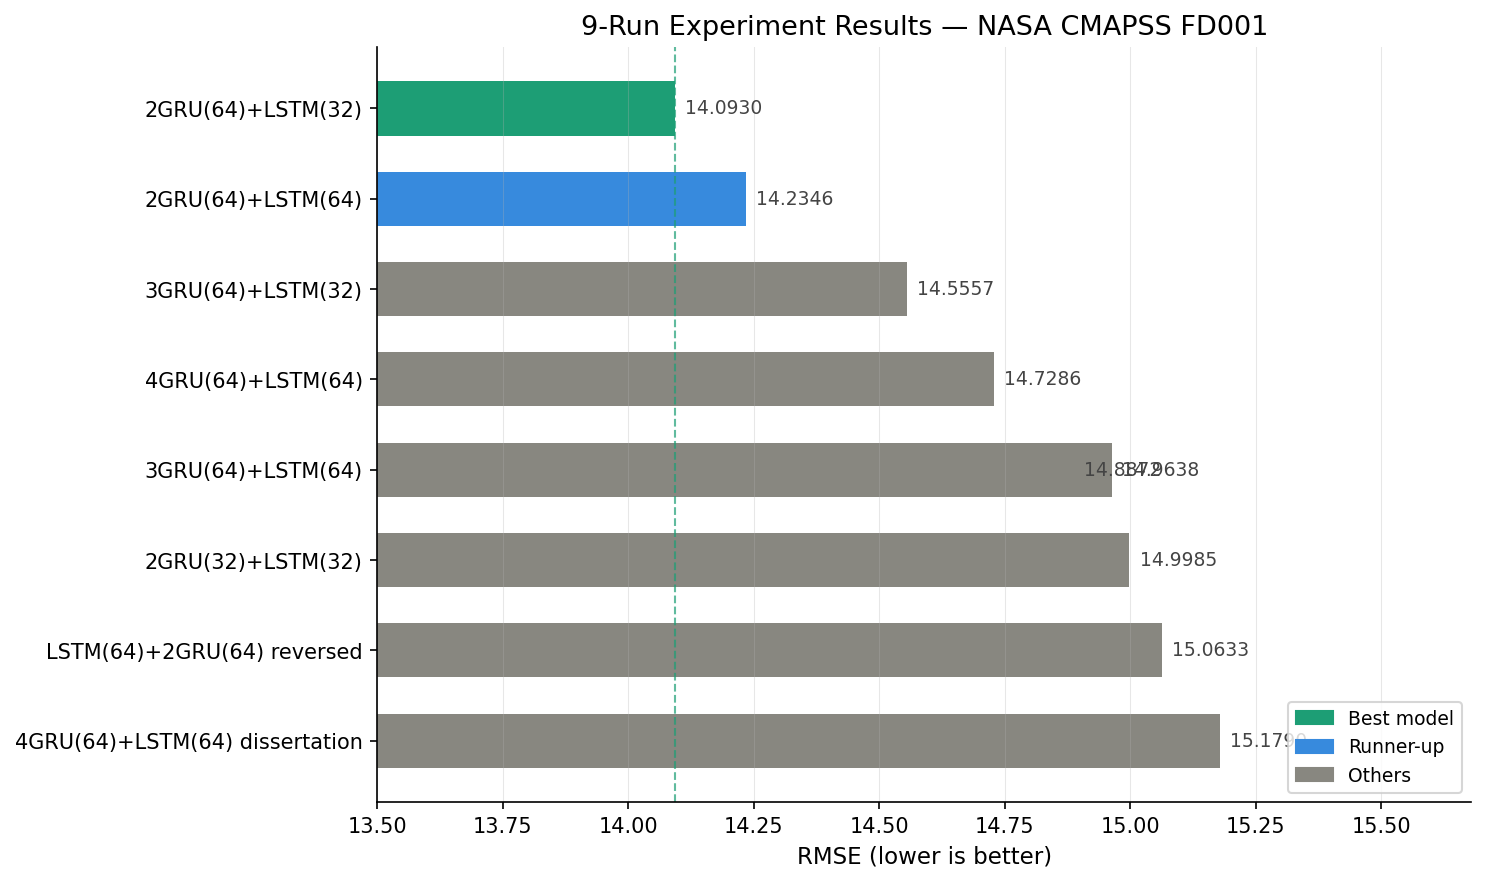
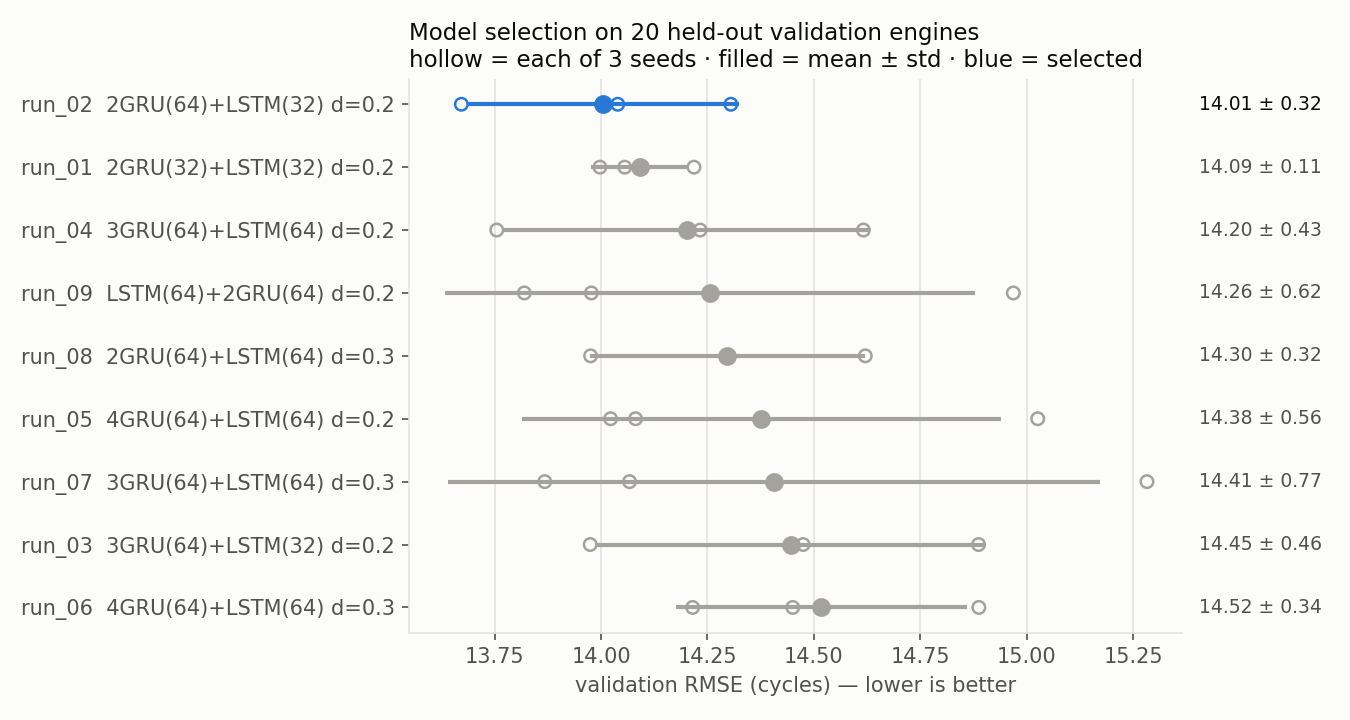
docs: rewrite README with honest results; add MIT license and new figures
- results as mean ± std over 5 seeds, with how they were produced and why
  the earlier 14.07 was optimistic
- live links, architecture, API reference, layout, run/retrain/test steps,
  known limitation (optimistic bias), data citation
- drop claims that weren't true (Docker)
- regenerate experiment_comparison.png and predicted_vs_actual.png from the
  v2 results (scripts/make_figures.py); the old ones showed test-selected runs

diff --git a/scripts/make_figures.py b/scripts/make_figures.py
@@ -1,0 +1,122 @@
+"""
+Regenerate the result figures in reports/ from the saved v2 results.
+
+    python -m scripts.make_figures
+
+reads reports/experiments_v2.csv (selection experiment) and the deployed model's
+test predictions in models/ — no training, runs in seconds.
+"""
+
+import json
+from pathlib import Path
+
+import matplotlib
+import matplotlib.ticker
+matplotlib.use('Agg')
+import matplotlib.pyplot as plt
+import numpy as np
+import pandas as pd
+
+from rul.config import RUL_CAP
+from rul.metrics import evaluate
+
+ROOT    = Path(__file__).parent.parent
+REPORTS = ROOT / 'reports'
+MODELS  = ROOT / 'models'
+
+# reference palette (light surface)
+SURFACE   = '#fcfcfb'
+INK       = '#0b0b0b'
+INK_2     = '#52514e'
+GRID      = '#e4e3df'
+HIGHLIGHT = '#2a78d6'   # categorical slot 1 — the selected config / early predictions
+SECOND    = '#eb6834'   # categorical slot 2 — late predictions
+NEUTRAL   = '#a3a29c'
+
+plt.rcParams.update({
+    'figure.facecolor': SURFACE, 'axes.facecolor': SURFACE, 'savefig.facecolor': SURFACE,
+    'axes.edgecolor': GRID, 'axes.labelcolor': INK_2, 'text.color': INK,
+    'xtick.color': INK_2, 'ytick.color': INK_2, 'font.size': 10,
+    'axes.spines.top': False, 'axes.spines.right': False,
+})
+
+
+def experiment_comparison():
+    df = pd.read_csv(REPORTS / 'experiments_v2.csv')
+    stats = (df.groupby(['run', 'config'])['val_rmse'].agg(['mean', 'std'])
+               .sort_values('mean').reset_index())
+    winner = stats.iloc[0]['run']
+
+    fig, ax = plt.subplots(figsize=(9, 4.8))
+    for y, row in enumerate(stats.itertuples()):
+        color = HIGHLIGHT if row.run == winner else NEUTRAL
+        seeds = df.loc[df['run'] == row.run, 'val_rmse']
+        # individual seeds (hollow) + mean ± std (filled)
+        ax.scatter(seeds, [y] * len(seeds), s=36, facecolors='none', edgecolors=color, linewidths=1.2, zorder=2)
+        ax.errorbar(row.mean, y, xerr=row.std, fmt='o', ms=8, color=color, ecolor=color,
+                    elinewidth=2, capsize=0, zorder=3)
+        ax.text(stats['mean'].max() + stats['std'].max() + 0.12, y, f"{row.mean:.2f} ± {row.std:.2f}",
+                va='center', fontsize=9, color=INK if row.run == winner else INK_2)
+
+    ax.set_yticks(range(len(stats)), [f"{r.run}  {r.config}" for r in stats.itertuples()])
+    ax.invert_yaxis()
+    ax.set_xlabel('validation RMSE (cycles) — lower is better')
+    ax.grid(axis='x', color=GRID, linewidth=0.8)
+    ax.set_axisbelow(True)
+    ax.set_title('Model selection on 20 held-out validation engines\n'
+                 'hollow = each of 3 seeds · filled = mean ± std · blue = selected',
+                 loc='left', fontsize=11, color=INK)
+    fig.tight_layout()
+    fig.savefig(REPORTS / 'experiment_comparison.png', dpi=150)
+    plt.close(fig)
+
+
+def predicted_vs_actual():
+    y_true = np.clip(np.load(MODELS / 'fleet_true_rul.npy'), 0, RUL_CAP)
+    y_pred = np.load(MODELS / 'y_pred_test.npy')
+    final  = json.loads((REPORTS / 'final_metrics.json').read_text())
+    seeds  = final['test_across_seeds']
+    m      = evaluate(y_true, y_pred)
+    err    = y_pred - y_true
+    late   = err > 0
+
+    fig, (ax1, ax2) = plt.subplots(1, 2, figsize=(12, 5))
+
+    # predicted vs actual
+    ax1.plot([0, RUL_CAP], [0, RUL_CAP], color=INK_2, linewidth=1, linestyle='--', zorder=1)
+    ax1.scatter(y_true[~late], y_pred[~late], s=40, color=HIGHLIGHT, edgecolors=SURFACE, linewidths=1.5,
+                label=f'early / exact ({(~late).sum()})', zorder=2)
+    ax1.scatter(y_true[late], y_pred[late], s=40, color=SECOND, edgecolors=SURFACE, linewidths=1.5,
+                label=f'late — predicted more life than actual ({late.sum()})', zorder=2)
+    ax1.set_xlim(-3, RUL_CAP + 5); ax1.set_ylim(-3, RUL_CAP + 5)
+    ax1.set_xlabel(f'actual RUL (cycles, capped at {RUL_CAP})')
+    ax1.set_ylabel('predicted RUL (cycles)')
+    ax1.grid(color=GRID, linewidth=0.8); ax1.set_axisbelow(True)
+    ax1.legend(loc='lower right', frameon=False, fontsize=9)   # empty corner — no data underneath
+    ax1.set_title(f"Deployed model ({final['model_version']}) — 100 test engines\n"
+                  f"RMSE {m['rmse']:.2f} · R² {m['r2']:.3f} · NASA score {m['nasa_score']:.0f}",
+                  loc='left', fontsize=11)
+
+    # error distribution
+    bins = np.arange(np.floor(err.min() / 5) * 5, np.ceil(err.max() / 5) * 5 + 5, 5)
+    ax2.hist(err[err <= 0], bins=bins, color=HIGHLIGHT, edgecolor=SURFACE, linewidth=2, label='early')
+    ax2.hist(err[err > 0],  bins=bins, color=SECOND,    edgecolor=SURFACE, linewidth=2, label='late')
+    ax2.axvline(0, color=INK_2, linewidth=1, linestyle='--')
+    ax2.set_xlabel('prediction error = predicted − actual (cycles)')
+    ax2.set_ylabel('engines')
+    ax2.yaxis.set_major_locator(matplotlib.ticker.MaxNLocator(integer=True))   # whole engines only
+    ax2.grid(axis='y', color=GRID, linewidth=0.8); ax2.set_axisbelow(True)
+    ax2.legend(frameon=False, fontsize=9)
+    ax2.set_title(f"Error distribution — mean {m['mean_error']:+.1f} cycles (optimistic)\n"
+                  f"across 5 seeds: RMSE {seeds['rmse']['mean']:.2f} ± {seeds['rmse']['std']:.2f}",
+                  loc='left', fontsize=11)
+
+    fig.tight_layout()
+    fig.savefig(REPORTS / 'predicted_vs_actual.png', dpi=150)
+    plt.close(fig)
+
+
+if __name__ == '__main__':
+    experiment_comparison()
+    predicted_vs_actual()
+    print('saved reports/experiment_comparison.png and reports/predicted_vs_actual.png')

diff --git a/README.md b/README.md
@@ -1,53 +1,132 @@
-# Jet Engine RUL Prediction System
+# Jet Engine RUL Prediction
 
-A production-grade predictive maintenance system for aviation turbofan 
-engines — predicting Remaining Useful Life (RUL) using a GRU-LSTM 
-hybrid model with attention mechanism.
+[![CI](https://github.com/Haadhi-Mohammed/jet-engine-rul/actions/workflows/ci.yml/badge.svg)](https://github.com/Haadhi-Mohammed/jet-engine-rul/actions/workflows/ci.yml)
 
-## Project Overview
+Predicts the **Remaining Useful Life (RUL)** of turbofan engines — how many flight cycles are
+left before maintenance is needed — from their last 30 cycles of sensor data, and explains each
+prediction with SHAP.
 
-Unplanned engine failures cost the aviation industry billions annually. 
-This system predicts how many flight cycles remain before an engine 
-requires maintenance, enabling proactive scheduling and preventing 
-catastrophic failures.
+**Live:** [Fleet dashboard](https://huggingface.co/spaces/HaadhiMohammed/jet-engine-rul) ·
+[API docs](https://jet-engine-rul-api.onrender.com/docs)
+<sub>(the API runs on a free tier that sleeps when idle — the first load can take 1–3 minutes)</sub>
 
-## Dataset
+## Results
 
-NASA CMAPSS (Commercial Modular Aero-Propulsion System Simulation)
-- FD001: 100 training engines, 100 test engines
-- Single operating condition, single fault mode
-- 21 sensor measurements per cycle
+NASA CMAPSS FD001, 100 test engines, RUL capped at 125 cycles (standard for this benchmark):
 
-## Model Architecture
-
-- 4 × GRU layers
-- 1 × LSTM layer  
-- Scaled Dot-Product Attention mechanism
-- RobustScaler preprocessing
-- Validation RMSE: 24.62 | MAE: 18.21
-
-## Tech Stack
-
-| Layer | Tools |
+| Metric | Mean ± std over 5 training seeds |
 |---|---|
-| Modelling | TensorFlow/Keras (GRU-LSTM + Attention) |
-| Experiment tracking | MLflow |
-| Explainability | SHAP |
-| API | FastAPI + Docker |
-| Dashboard | Streamlit (Fleet + Individual engine) |
-| CI/CD | GitHub Actions |
-| Deployment | Render + HuggingFace Spaces |
+| RMSE | **14.66 ± 0.26** cycles |
+| MAE | 10.77 ± 0.27 cycles |
+| R² | 0.866 ± 0.005 |
+| NASA score ([Saxena et al., 2008](#data)) | 488 ± 118 |
 
-## Setup
+How these numbers were produced — and why they can be trusted:
+
+- **Model selection never sees the test set.** 9 architectures × 3 seeds were compared on a
+  validation split of **20 held-out engines**; the test set was loaded once, after every decision.
+- **Split by engine, not by window.** Overlapping windows of one engine never appear on both sides.
+- **Reported as mean ± std over seeds**, because a single run's score is partly luck — individual
+  seeds of the same model range from 14.3 to 15.0 RMSE.
+- **Reproducible:** fixed seeds and deterministic ops — rerunning gives identical results.
+
+The deployed model is the seed with the best *validation* score (test RMSE 14.99, inside the normal
+spread). An earlier version of this project reported RMSE 14.07; that model had been picked by
+test-set score, which made the number optimistic — see `notebooks/03_training.ipynb`.
+
+![Model selection on validation engines](reports/experiment_comparison.png)
+
+**Finding:** smaller is better here — 2 GRU layers match or beat the 3–4 layer stacks
+(including the original dissertation architecture), but the top configurations are within
+seed-to-seed noise of each other.
+
+![Predicted vs actual RUL](reports/predicted_vs_actual.png)
+
+**Known limitation:** the model is optimistic on average (+5.4 cycles; 66 of 100 engines
+get *more* predicted life than they have). In maintenance that is the risky direction —
+an asymmetric loss is the natural next step.
+
+## How it works
+
+```
+CMAPSS sensors ──► drop 7 flat sensors ──► RobustScaler ──► 30-cycle windows
+                                                               │
+     2 × GRU(64) ──► LSTM(32) ──► scaled dot-product self-attention ──► dense ──► RUL
+                                                               │
+                                          SHAP GradientExplainer ──► per-sensor importance
+```
+
+- **Data:** 14 informative sensors; training labels are RUL = cycles until failure, capped at 125
+  (early-life cycles all look healthy, so they share one label).
+- **Serving:** a FastAPI service (Render) loads the model, scaler and SHAP explainer.
+  A Streamlit dashboard (Hugging Face Spaces) is a thin client over the API.
+- **Alerts:** RUL < 30 → RED (immediate maintenance), < 60 → AMBER, otherwise GREEN.
+
+### API
+
+| Endpoint | What it returns |
+|---|---|
+| `GET /` | model, version, metrics, feature list, alert thresholds, valid input ranges |
+| `GET /fleet` | all 100 test engines: predicted + actual RUL and alert level |
+| `GET /engines/{id}/explain` | prediction + SHAP sensor importance for one engine |
+| `GET /engines/{id}/sensors` | that engine's last 30 cycles (scaled) for charts |
+| `POST /predict` | prediction + SHAP for 30 cycles of **raw** sensor readings you send |
+| `GET /health` | liveness check |
+
+`/predict` validates its input (exactly 30 cycles, no NaN/Infinity, readings within a plausible
+range) and is rate-limited to 30 requests per minute per client.
+
+## Project layout
+
+```
+rul/            shared package — config, preprocessing, model, metrics, attention layer
+scripts/        train.py (experiment + final training), make_figures.py
+api/            FastAPI service
+dashboard/      Streamlit dashboard (deployed to Hugging Face by CI)
+models/         deployed model + scaler + fleet data
+tests/          pytest suite — API contract, input validation, pipeline reproducibility
+notebooks/      original exploration and experiments (kept as a record)
+reports/        figures and results (experiments_v2.csv, final_metrics.json)
+```
+
+## Run it locally
 
 ```bash
 python -m venv venv
-venv\Scripts\activate
-pip install -r requirements.txt
+venv\Scripts\activate              # macOS/Linux: source venv/bin/activate
+pip install -r requirements-api.txt -r requirements-dashboard.txt pytest httpx
+
+uvicorn api.main:app --port 8001                          # API → http://localhost:8001/docs
+RUL_API_URL=http://localhost:8001 streamlit run dashboard/app.py   # PowerShell: $env:RUL_API_URL="..."
+python -m pytest                                          # tests
 ```
+
+### Retrain
+
+Download the [CMAPSS data](#data) into `data/raw/`, then:
+
+```bash
+python -m scripts.train experiment          # 9 configs × 3 seeds, ranked on validation (~1 h on CPU)
+python -m scripts.train final --run run_02  # 5 seeds, one test evaluation, writes models/
+python -m scripts.make_figures              # regenerate the figures above
+mlflow ui --backend-store-uri sqlite:///mlflow.db   # browse every run
+```
+
+## Tech stack
+
+TensorFlow/Keras · scikit-learn · SHAP · MLflow · FastAPI · Streamlit · Plotly · pytest ·
+GitHub Actions (tests + dashboard deploy) · Render · Hugging Face Spaces
+
+## Data
+
+A. Saxena, K. Goebel, D. Simon, N. Eklund, *"Damage Propagation Modeling for Aircraft Engine
+Run-to-Failure Simulation"*, PHM 2008. Dataset: NASA Prognostics Center of Excellence —
+[CMAPSS Jet Engine Simulated Data](https://data.nasa.gov/dataset/cmapss-jet-engine-simulated-data).
+The data is not included in this repository.
 
 ## Author
 
-Haadhi Mohammed  
-MSc Data Science — Coventry University (Distinction)  
-Dissertation project — Academic Year 2024/25
+Haadhi Mohammed — MSc Data Science, Coventry University (Distinction).
+Builds on my 2024/25 dissertation project.
+
+Code released under the [MIT License](LICENSE).
